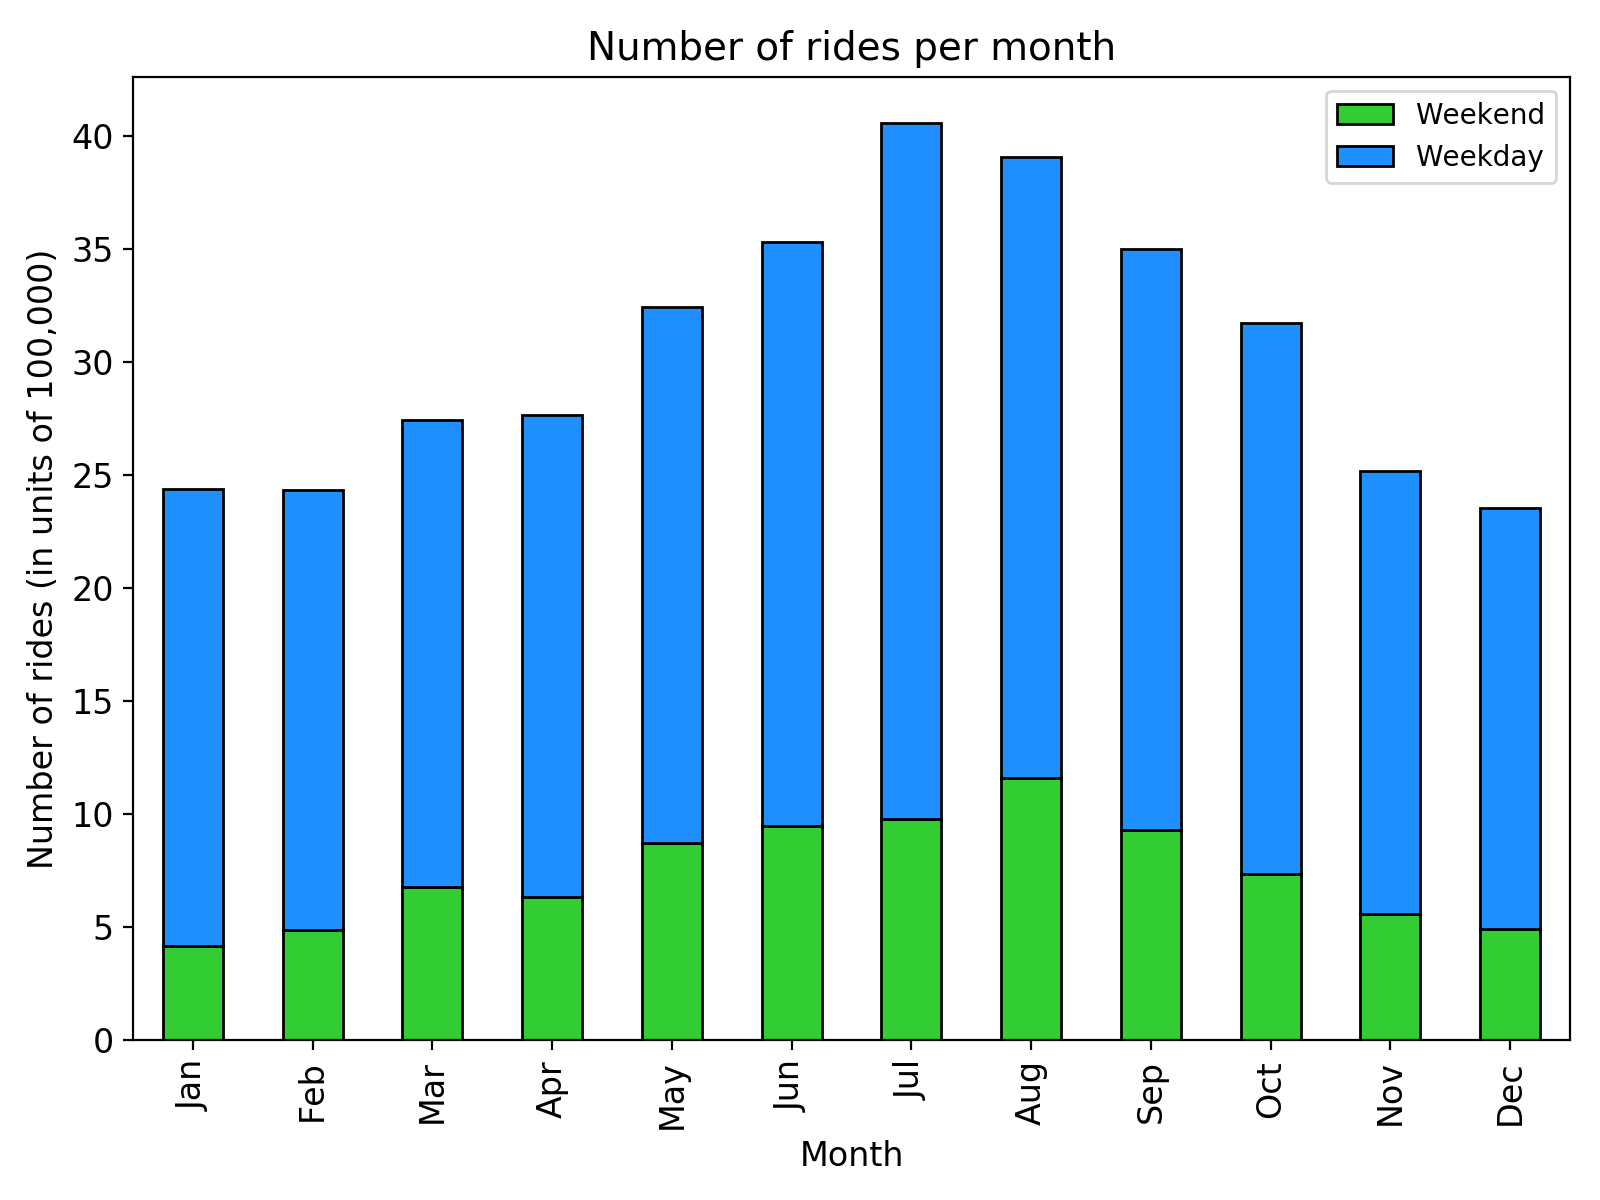
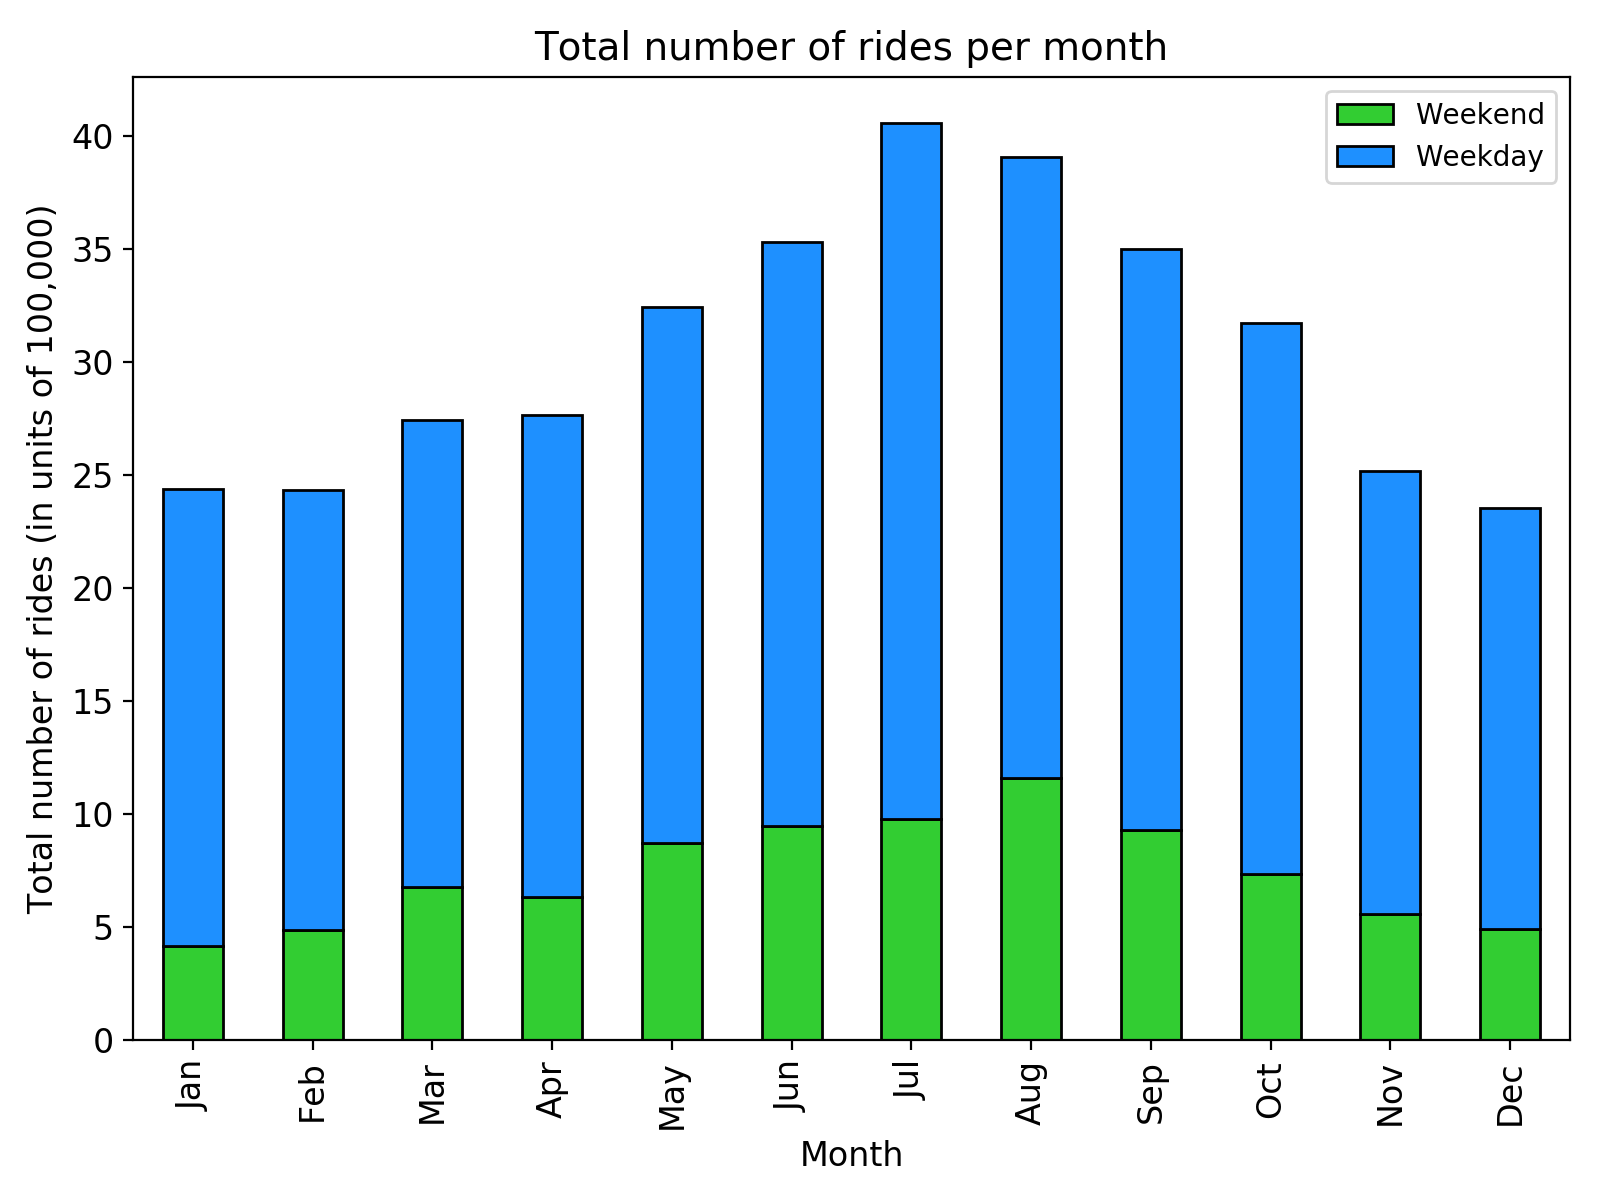
New total rides by month plot

Changed region(s): [[0.0, 0.185, 0.0312, 0.7708], [0.3438, 0.0308, 0.7188, 0.0617]]

diff --git a/exploratory_data_analysis/rides_by_month.py b/exploratory_data_analysis/rides_by_month.py
@@ -22,14 +22,14 @@ query_wkend = ''' SELECT strftime("%m", End_Date) AS Month,
 query_results = [(con.execute(cur), con.execute(cur).fetchall()) for cur in [query_wkday, query_wkend]]
 results_df_list = [pd.DataFrame(result[1], columns=[x[0] for x in result[0].description]) for result in query_results]
 results_df = pd.concat(results_df_list, axis=1)
+rides_results_df = results_df[['WeekEnd_Rides', 'WeekDay_Rides']].rename(columns={'WeekEnd_Rides': 'Weekend', 'WeekDay_Rides': 'Weekday'}, index={0: 'Jan', 1: 'Feb', 2: 'Mar', 3: 'Apr', 4: 'May', 5: 'Jun', 6: 'Jul', 7: 'Aug', 8: 'Sep', 9: 'Oct', 10: 'Nov', 11: 'Dec'})
 
 # plot
-rides_results_df = results_df[['WeekEnd_Rides', 'WeekDay_Rides']].rename(columns={'WeekEnd_Rides': 'Weekend', 'WeekDay_Rides': 'Weekday'}, index={0: 'Jan', 1: 'Feb', 2: 'Mar', 3: 'Apr', 4: 'May', 5: 'Jun', 6: 'Jul', 7: 'Aug', 8: 'Sep', 9: 'Oct', 10: 'Nov', 11: 'Dec'})
 rides_results_df = rides_results_df.divide(1e5)
 ax = rides_results_df.plot(kind='bar', stacked=True, figsize=(8, 6), color=['limegreen', 'dodgerblue'], fontsize=12, edgecolor='k')
 ax.set_xlabel('Month', fontsize=12)
-ax.set_ylabel('Number of rides (in units of 100,000)', fontsize=12)
-ax.set_title('Number of rides per month', fontsize=14)
+ax.set_ylabel('Total number of rides (in units of 100,000)', fontsize=12)
+ax.set_title('Total number of rides per month', fontsize=14)
 # ax.grid(linestyle=':')
 ax.legend(loc='best')
 plt.tight_layout()
